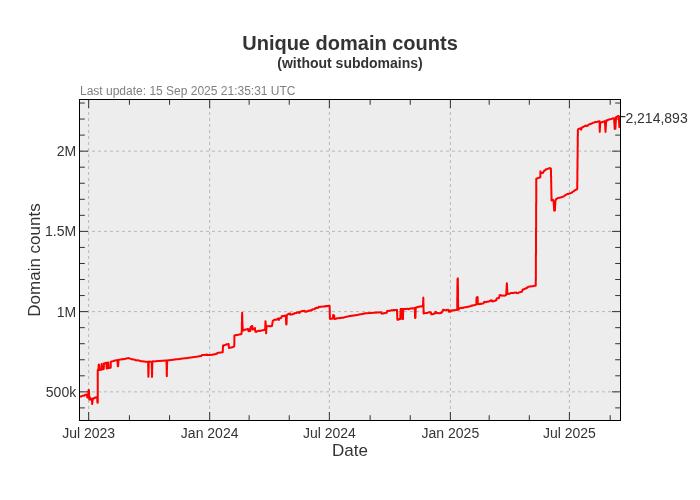
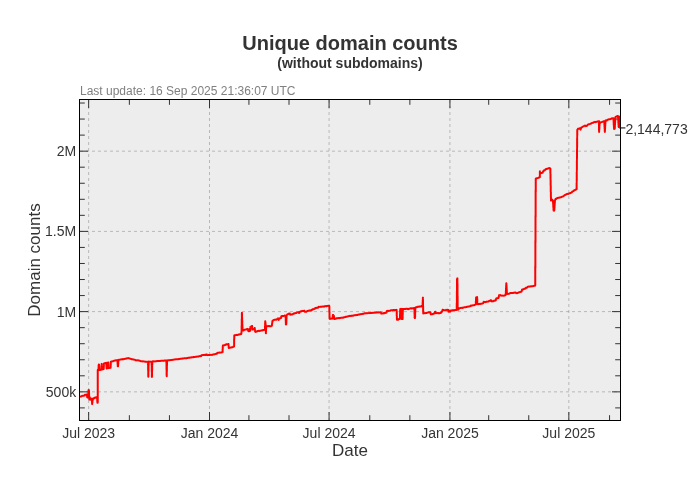
Update pages

diff --git a/README.md b/README.md
@@ -3,22 +3,22 @@ A blocklist file for blocking ads, trackers and malware domains.
 
[1 lines of base64/hex data omitted]
 
-- Unique domains: 2,889,786
-- Without subdomains: 2,214,893
-- Last update: 15 Sep 2025 21:35:31 UTC
-- Version: 2025.09.15.01
+- Unique domains: 2,810,315
+- Without subdomains: 2,144,773
+- Last update: 16 Sep 2025 21:36:07 UTC
+- Version: 2025.09.16.01
 
 
 ### Downloads:
 
 | Format             | Domain count      | Download Link |
 |:------------------ | -----------------:|:-------------:|
-| *Adblock Plus*     | 2,214,893 | [Download](https://dl.cenk.app/bad-hosts/bad-hosts-abp) |
-| *Wildcard domains* | 2,214,893 | [Download](https://dl.cenk.app/bad-hosts/bad-hosts-wildcard) |
-| *dnsmasq*          | 2,214,893 | [Download](https://dl.cenk.app/bad-hosts/bad-hosts-dnsmasq) |
-| *hosts*            | 2,889,786 | [Download](https://dl.cenk.app/bad-hosts/hosts) |
-| *hosts (ipv6)*     | 2,889,786 | [Download](https://dl.cenk.app/bad-hosts/hosts-ipv6) |
-| *Plain domains*    | 2,889,786 | [Download](https://dl.cenk.app/bad-hosts/bad-hosts-domains) |
+| *Adblock Plus*     | 2,144,773 | [Download](https://dl.cenk.app/bad-hosts/bad-hosts-abp) |
+| *Wildcard domains* | 2,144,773 | [Download](https://dl.cenk.app/bad-hosts/bad-hosts-wildcard) |
+| *dnsmasq*          | 2,144,773 | [Download](https://dl.cenk.app/bad-hosts/bad-hosts-dnsmasq) |
+| *hosts*            | 2,810,315 | [Download](https://dl.cenk.app/bad-hosts/hosts) |
+| *hosts (ipv6)*     | 2,810,315 | [Download](https://dl.cenk.app/bad-hosts/hosts-ipv6) |
+| *Plain domains*    | 2,810,315 | [Download](https://dl.cenk.app/bad-hosts/bad-hosts-domains) |
 
 ### Domain count history
 #### With subdomains
